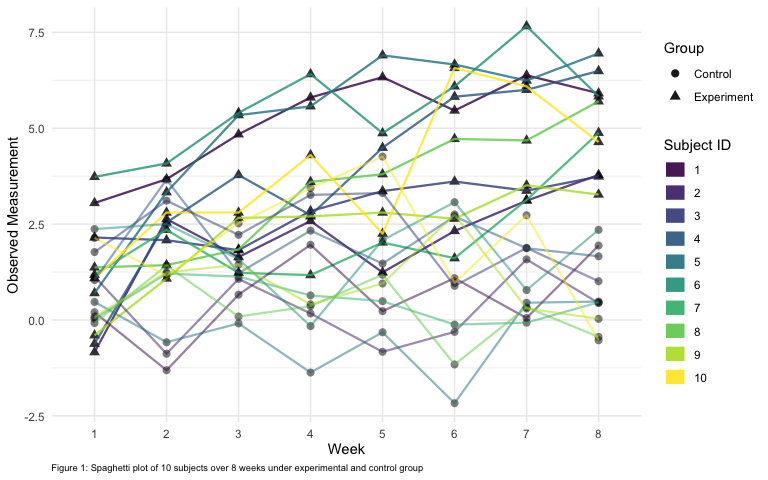
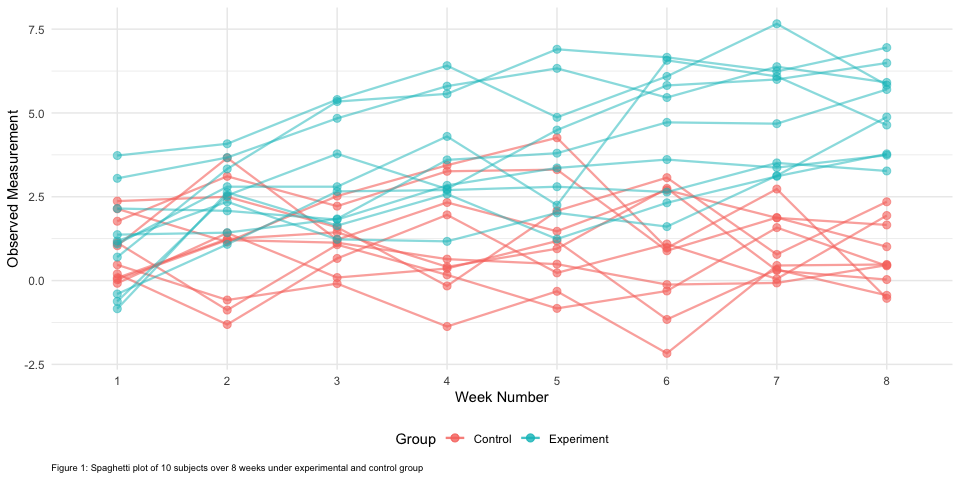
knitted md

diff --git a/p8105_hw5_ksw2137.md b/p8105_hw5_ksw2137.md
@@ -38,9 +38,7 @@ avgchar_na_replace <- function(input_vec, char_replace = "virginica") { # functi
   } else if (is.character(input_vec)) {                                 # if character, replace with char input
     replace_na(input_vec, char_replace)
   } else if (is.numeric(input_vec)) {                                   # if numeric, return a mean of the vector
-    round(
-      replace_na(                                                       # with 1 decimal
-        input_vec, mean(input_vec, na.rm = TRUE)), 1)
+    round(replace_na(input_vec, mean(input_vec, na.rm = TRUE)), 1)      # with 1 decimal
   }
 }
 
@@ -62,21 +60,19 @@ numbers in `Sepal.Length` column, replaces `NA` in that column.
 
 We have 20 files that contains 8-weeks longitudinal study result files
 for 10 subjects under experiment and control arm. First, we need to
-consolidate this into 1 dataframe.
+consolidate this into 1
+dataframe.
+
+### Reading and Cleaning Data
 
 ``` r
-# stores file names inside specified path and turn it into r x 1 tibble
-files <- list.files("./data") %>% 
-  tibble::enframe(name = NULL) %>%
-  rename("file_name" = value)
-
-# maps read_csv to iterate reading all the files based on files above
-# and make a listcol out of the read contents, then unnested to get a proper tibble
-exp_df <- files %>% 
-  mutate(
-    weekly_data = map(file_name, ~read_csv(str_c("./data/", .x)))
+exp_df <- list.files("./data") %>%                                # makes a list of filenames under data folder
+  tibble::enframe(name = NULL) %>%                                # turns list into a row x 1 column tibble
+  rename("file_name" = value) %>%                                 # rename column
+  mutate(                                                         # maps read_csv to iterate based on "filenames"
+    weekly_data = map(file_name, ~read_csv(str_c("./data/", .x))) # stores read data as listcol 
   ) %>% 
-  unnest()
+  unnest()                                                        # unnest data to expand listcol into tibble 
 ```
 
 Now that we have our dataframe, we need to clean it up.
@@ -102,80 +98,66 @@ Our clean dataframe is a 160 x 4 matrix with 4 variables; `group`
 (control/experiment), `subj_id` (subject “number”), `week` (week 1, 2,…,
 8), and `observation` (recorded data).
 
+### Plotting Differences in Experimental vs Control Group
+
 Now that it’s tidied, we could start exploring patterns and such. Below
-is a spaghetti plot that traces the data based on subject and their
-group.
+is a spaghetti plot that traces the data based on their group.
 
 ``` r
 # spaghetti plot of each subject by control/experiment
 # requires plotting twice to separate control/experiment
-
-ggplot(clean_exp_df %>%                                                        # plot for experiment group
-         filter(group == "Experiment")) +
-  geom_point(aes(x = week, y = observation, shape = group),                    # point plot for experiment
-             size = 2.5, alpha = 0.8) +
-  geom_line(aes(x = week, y = observation, color = subj_id, group = subj_id),  # line color by subject
-            size = 0.8, alpha = 0.8) +
+clean_exp_df %>% 
+  filter(group == "Control") %>% 
+  ggplot() +                                                                   # plot for control group
+  geom_point(aes(x = week, y = observation, color = group),                    # point plot for control group  
+             size = 2.5, alpha = 0.6) +
+  geom_line(aes(x = week, y = observation, group = subj_id, color = group),    # line color by group
+            size = 0.8, alpha = 0.6) +
   
   # another set of geom_point/_line for control group. Alpha is differentiated to aid discernment
-  geom_point(data = clean_exp_df %>%                                           # point plot for control 
-               filter(group == "Control"),
-             aes(x = week, y = observation, shape = group), 
+  geom_point(data = clean_exp_df %>%                                           # point plot for experiment group 
+               filter(group == "Experiment"),
+             aes(x = week, y = observation, color = group), 
              size = 2.5, alpha = 0.5) +
-  geom_line(data = clean_exp_df %>%                                            # line color by subject
-              filter(group == "Control"), 
-            aes(x = week, y = observation, color = subj_id, group = subj_id), 
+  geom_line(data = clean_exp_df %>%                                            # line color by group
+              filter(group == "Experiment"), 
+            aes(x = week, y = observation, group = subj_id, color = group), 
             size = 0.8, alpha = 0.5) +
-  guides(color = guide_legend(override.aes = list(size = 5))) + # resize the color code for legends
-  labs(x = "Week",
+  labs(x = "Week Number",
        y = "Observed Measurement",
        caption = "Figure 1: Spaghetti plot of 10 subjects over 8 weeks under experimental and control group",
-       color = "Subject ID",
-       shape = "Group"
-       ) +
-  theme(legend.position = "right")
+       color = "Group"
+       )
 ```
 
 <img src="p8105_hw5_ksw2137_files/figure-gfm/spaghetti_all-1.png" style="display: block; margin: auto;" />
 
-As we can see above however, this plot is very messy because there are
-too many subjects in the plot; even adding shapes doesn’t help too much.
-For greater clarity, we could facet this below
-
-``` r
-# better "spaghetti" plot
-clean_exp_df %>%                                                # base for facet graph
-  ggplot(aes(x = week, y = observation, color = subj_id)) +     # give color by subjects
-  geom_point(size = 2) + 
-  geom_line(aes(group = subj_id), alpha = 0.7, size = 0.6) +
-  facet_grid(. ~ group) +                                       # facet by group
-  guides(color = guide_legend(override.aes = list(size = 5))) + # resize the color code for legends
-  labs(x = "Week",
-       y = "Observed Measurement",
-       caption = "Figure 2: Faceted spaghetti plot of 10 subjects over 8 weeks by group",
-       color = "Subject ID")
-```
-
-<img src="p8105_hw5_ksw2137_files/figure-gfm/spaghetti_facet-1.png" style="display: block; margin: auto;" />
-
-Now that it’s split between control and experiment, it’s much less
-cluttered and now we could see that the experiment group’s observed data
-increases as the week goes by for all subjects while it stays relatively
-flat in the control group.
+Per above, experiment group’s observed data increases as the week goes
+by for all subjects while control stays relatively flat. This suggests
+treatment in experimental group have a positive correlation. Next step
+is testing if difference between groups is statistically significant or
+not.
 
 # Problem 3
 
-When designing an experiment or analysis, a common question is whether
-it is likely that a true effect will be detected – put differently,
-whether a false null hypothesis will be rejected. The probability that a
-false null hypothesis is rejected is referred to as power, and it
-depends on several factors, including: the sample size; the effect size;
-and the error variance. In this problem, you will conduct a simulation
-to explore power in a simple linear regression.
+### Obtaining Simulation Data
+
+In this problem, we are going to be trying our hands on some simple
+linear regression simulation, which has a general formula of:
+\[y_i=\beta_0 + \beta_1\cdot x_{i1} + \epsilon_i\]
+
+We will be running the simulation under several assumptions:
+
+  - \(n = 30\)
+  - \(\beta_0 = 2\)
+  - \(x_i\sim N(0,1)\)
+  - \(\sigma^2 = 50\)
+
+We will then vary our “true” slope, \(\beta_1=\{0, 1, 2, 3, 4, 5, 6 \}\)
 
 ``` r
 # general simple linear regression simulation function...
-simple_lin_regress <- function(n, beta0 = 2, beta1, var) {
+slr_sim <- function(n, beta0 = 2, beta1, var) {  # function with beta0 default = 2
   
   sim_data = tibble(
     x = rnorm(n, mean = 0, sd = 1),                         # x pulled from standard normal distro
@@ -185,31 +167,94 @@ simple_lin_regress <- function(n, beta0 = 2, beta1, var) {
   ls_fit = lm(y ~ x, data = sim_data) %>%                   # linear model fit
     broom::tidy()                                           # turns into tibble; easier to obtain b1_hat, p-val
   
-  tibble(                                                   # puts those values inside a new tibble
-    beta1_hat = ls_fit[[2,2]],
-    p_val = ls_fit[[2,5]]
+  tibble(                                                   # puts specified values inside a new tibble
+    beta1_hat = ls_fit[[2,2]],                              # beta1_estimate
+    p_val = ls_fit[[2,5]]                                   # p-value for testing H_o: beta1 = 0
   )
 }
 
-# beta1 values of interest
-value_stor <- tibble(
-  beta1_values = 0:6)
-
-# new df that takes the assigned n, beta0, and var
-value_df <- value_stor %>% 
-  mutate(
-    testruns = map(beta1_values, ~rerun(10000, simple_lin_regress(n = 30, beta1 = .x, var = 50)))
+# code to run 10,000 simulations per beta1 of 1-6 and obtain beta1_hat and p-value
+beta_value_df <- tibble(
+  beta1_values = 0:6) %>%                                         # make a column of our "true" beta1 values
+  mutate(                                                         # apply our beta1 to the linear regression fn
+    testruns =                                                    # adds a listcol to column "testrun"
+      map(beta1_values,                                           # run simulation 10k / beta1 value
+          ~rerun(10000, slr_sim(n = 30, beta1 = .x, var = 50)))   # fixed values of n, variance 
   ) %>% 
-  unnest() %>% 
-  unnest()
+  unnest() %>%                                                    # unnests the 10k observations
+  unnest()                                                        # unnests the beta1_hat and p-val inside each obs
 ```
 
-Make a plot showing the proportion of times the null was rejected (the
-power of the test) on the y axis and the true value of β2 on the x axis.
-Describe the association between effect size and power. Make a plot
-showing the average estimate of β̂ 1 on the y axis and the true value of
-β1 on the x axis. Make a second plot (or overlay on the first) the
-average estimate of β̂ 1 only in samples for which the null was rejected
-on the y axis and the true value of β1 on the x axis. Is the sample
-average of β̂ 1 across tests for which the null is rejected
-approximately equal to the true value of β1? Why or why no
+Our resulting dataframe contains 70000 rows which correspond to 10,000
+observations per \(\beta_1\). It has 3, which stores the true `beta1`,
+`beta1_hat`, and `p_val`. Now that we’ve obtained our datapoints for
+each \(\beta_1=\{0, 1, 2, 3, 4, 5, 6 \}\), we can plot and see the
+relationship of the estimated \(\hat\beta_1\) against the true
+\(\beta_1\).
+
+### Relationship between Effect Size and Power
+
+First, we’ll graph the proportion of \(p-value < 0.05\), which indicates
+the power of the test.
+
+``` r
+beta_value_df %>% 
+  group_by(beta1_values) %>% 
+  summarize(null_reject = sum(p_val < 0.05),
+            total_obs = n()) %>% 
+  mutate(
+    rate_reject = (null_reject/total_obs) * 100,
+    beta1_values = as_factor(beta1_values)
+  ) %>% 
+  ggplot(aes(x = beta1_values, y = rate_reject, color = beta1_values, fill = beta1_values)) +
+  geom_bar(stat = "identity") +
+  labs(x = "True β1 Values",
+       y = "Percent of p-value < 0.05 (%)",
+       caption = "Figure 2: Histogram of power of test (% of null rejected)"
+       ) +
+  theme(legend.position = "none")
+```
+
+<img src="p8105_hw5_ksw2137_files/figure-gfm/slr_power-1.png" style="display: block; margin: auto;" />
+
+Per above, we see that as effect size rises, power of the test
+increases. This aligns with our understanding of effect size and power
+of the test. If we think of effect size as the distance between two
+curves’ center, then it makes sense that our power increases as this
+distance
+increases.
+
+### Average Estimates of \(\hat\beta_1\) vs True \(\beta_1\) in Two Situations
+
+We could also plot the overall average estimates of \(\hat\beta_1\)
+compared against the true \(\beta_1\) and overlay the average estimate
+for \(\hat\beta_1\) from samples with rejected null.
+
+``` r
+rejected_avg_beta <- beta_value_df %>% 
+  filter(p_val < 0.05) %>%
+  group_by(beta1_values) %>% 
+  summarize(mean_beta_reject = mean(beta1_hat)) %>% 
+  mutate(beta1_values = as_factor(beta1_values))
+
+total_avg_beta <- beta_value_df %>% 
+  group_by(beta1_values) %>% 
+  summarize(mean_beta1_hat = mean(beta1_hat)) %>% 
+  mutate(beta1_values = as_factor(beta1_values))
+  
+
+left_join(rejected_avg_beta, total_avg_beta, by = "beta1_values") %>% 
+  pivot_longer(mean_beta_reject:mean_beta1_hat,
+               names_to = "betahat",
+               values_to = "mean_value") %>% 
+  ggplot(aes(x = beta1_values, y = mean_value, color = betahat)) +
+  geom_point(aes(group = betahat), alpha = 0.7) +
+  geom_line(aes(group = betahat), alpha = 0.7) +
+  labs(x = "True β1 Values",
+       y = "Average β̂1 p-value < 0.05 (%)",
+       caption = "Comparison of average values for all β1 estimates with average β1 values in samples with rejected null; both grouped by true β1 values"
+       ) +
+  scale_color_discrete(name = "Lines", labels = c("Average β1 - rejected null", "Average β1 - all"))
+```
+
+<img src="p8105_hw5_ksw2137_files/figure-gfm/slr_estimates-1.png" style="display: block; margin: auto;" />
